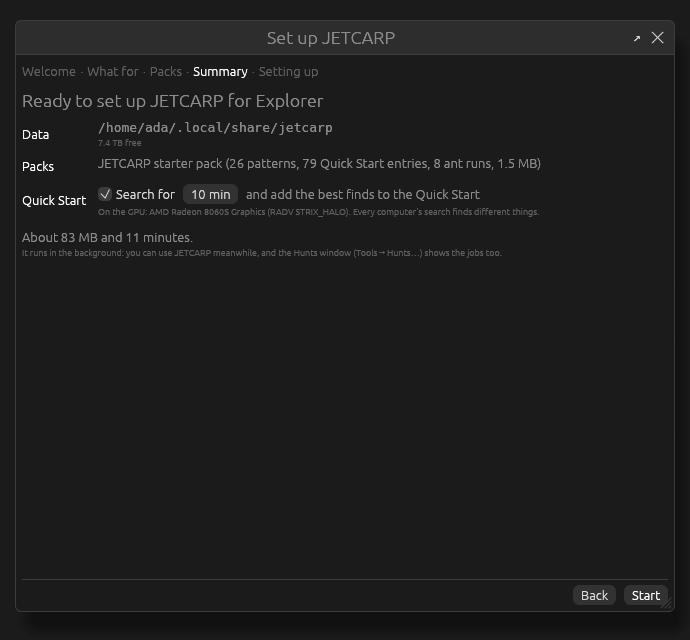
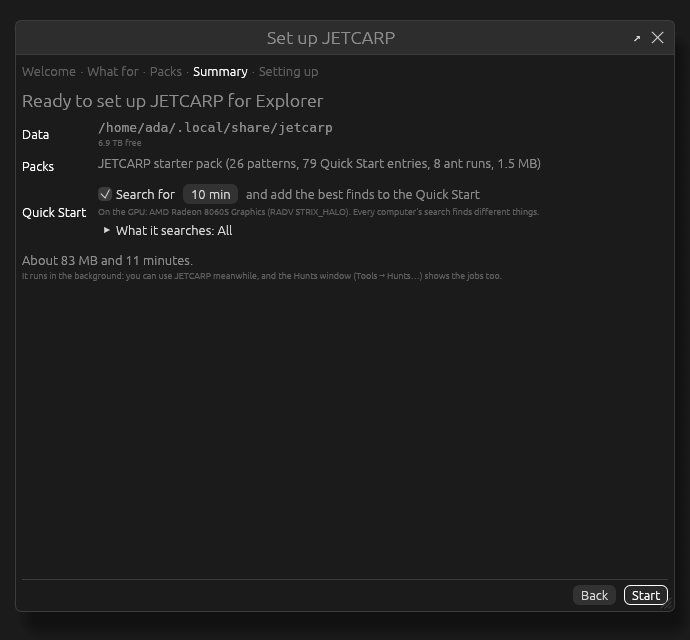
The setup window chooses what its Quick Start build searches (#239)
Under the build, *What it searches* reads All. Opened, an All box ticks
or clears every one, and a box for each tiling group and each rule
family narrows it; it then reads Custom, and setup is told the groups
(when not every one) and the families ticked. Start waits while no group
or no family is ticked.

All is every tiling and every family, isotropic rules included (the
maintainer's choice), and it is setup's own default, so `jetcarp setup`
builds the same search: a Quick Start build given no search names every
family the explore search samples (quick_start_everything).

Tests, red first: the_quick_start_search_is_all_or_custom (with the
choice not sent: "a custom choice"), and
the_quick_start_build_searches_everything_unless_told_otherwise (with
the old default, no families in the spec). The book's first-run page
and its summary picture, the searching guide and the changelog.

Changed region(s): [[0.0304, 0.3125, 0.5478, 0.4375], [0.6087, 0.375, 0.7304, 0.4375]]

diff --git a/crates/jetcarp-app/src/setup_ui.rs b/crates/jetcarp-app/src/setup_ui.rs
@@ -22,10 +22,12 @@ use crate::desktop_offers::Offer;
 use eframe::egui::{self, Color32, RichText};
 use jetcarp_api::Ctx;
 use jetcarp_api::op::{Op, Quiet};
+use jetcarp_api::ops::search::ExploreIn;
 use jetcarp_api::ops::setup::{
     self, Applied, ApplyIn, DataDirIn, KeySeen, PackEntry, Profile, SetupJob, SetupStatus,
 };
 use jetcarp_api::ops::system::human_bytes;
+use jetcarp_core::explore::space::Fam;
 use std::collections::BTreeMap;
 use std::path::{Path, PathBuf};
 use std::sync::Arc;
@@ -123,6 +125,10 @@ pub struct Wizard {
     pub extra: Vec<(PathBuf, Vec<PackEntry>)>,
     pub build_on: bool,
     pub minutes: f64,
+    /// What the Quick Start build searches: the tiling groups and the rule families, ticked or
+    /// not. Every one at first (*All*), isotropic rules included.
+    pub groups: Vec<(&'static str, bool)>,
+    pub families: Vec<(Fam, bool)>,
     pub offers: BTreeMap<&'static str, bool>,
     status: Option<SetupStatus>,
     loading: Option<Receiver<SetupStatus>>,
@@ -168,6 +174,14 @@ impl Wizard {
             extra: vec![],
             build_on: false,
             minutes: 0.0,
+            groups: jetcarp_core::explore::space::TILING_GROUPS
+                .iter()
+                .map(|g| (*g, true))
+                .collect(),
+            families: jetcarp_search::explore::job::sampled_families()
+                .into_iter()
+                .map(|f| (f, true))
+                .collect(),
             offers: Offer::ALL.iter().map(|o| (offer_key(*o), false)).collect(),
             status: None,
             loading: None,
@@ -454,6 +468,45 @@ impl Wizard {
         self.extra.push((dir, found));
     }
 
+    /// Whether the Quick Start build searches everything: every tiling group and every rule
+    /// family ticked (*All*).
+    pub fn search_all(&self) -> bool {
+        self.groups.iter().all(|g| g.1) && self.families.iter().all(|f| f.1)
+    }
+
+    /// Why the Quick Start build's choice can't run, if it can't.
+    pub fn search_problem(&self) -> Option<&'static str> {
+        if !self.build_on {
+            None
+        } else if !self.groups.iter().any(|g| g.1) {
+            Some("Tick at least one group of tilings.")
+        } else if !self.families.iter().any(|f| f.1) {
+            Some("Tick at least one rule family.")
+        } else {
+            None
+        }
+    }
+
+    /// The Quick Start build's search: none for *All* (setup's own default, every tiling and
+    /// every family), else the groups (when not every one) and the families ticked.
+    pub fn search_input(&self) -> Option<ExploreIn> {
+        if self.search_all() {
+            return None;
+        }
+        let groups: Vec<&str> = self.groups.iter().filter(|g| g.1).map(|g| g.0).collect();
+        let families: Vec<&str> = self
+            .families
+            .iter()
+            .filter(|f| f.1)
+            .map(|f| f.0.name())
+            .collect();
+        Some(ExploreIn {
+            tiling_groups: (groups.len() < self.groups.len()).then(|| serde_json::json!(groups)),
+            families: Some(serde_json::json!(families)),
+            ..Default::default()
+        })
+    }
+
     /// What `setup.apply` is asked to do.
     pub fn apply_input(&self) -> Option<ApplyIn> {
         let p = self.profile?;
@@ -475,6 +528,11 @@ impl Wizard {
             ),
             // As JETCARP's GPU setting says.
             gpu: None,
+            search: if self.build_on {
+                self.search_input()
+            } else {
+                None
+            },
             background: true,
             ..Default::default()
         })
@@ -753,7 +811,10 @@ impl Wizard {
                             .apply_input()
                             .is_some_and(|a| self.would_run_nothing(&a));
                         let label = if nothing { "Finish" } else { "Start" };
-                        let b = ui.button(RichText::new(label).strong());
+                        let b = ui.add_enabled(
+                            self.search_problem().is_none(),
+                            egui::Button::new(RichText::new(label).strong()),
+                        );
                         self.key_main(&b);
                         if b.clicked() {
                             self.next();
@@ -1234,6 +1295,9 @@ impl Wizard {
                         );
                     }
                     ui.label(RichText::new(words.join(" ")).small().weak());
+                    if self.build_on {
+                        self.search_choice_ui(ui);
+                    }
                 });
                 ui.end_row();
                 if p.desktop_offers() {
@@ -1279,6 +1343,46 @@ impl Wizard {
                 .weak(),
             );
         }
+    }
+
+    /// What the Quick Start build searches: *All* at first; opened, an *All* box and a box for
+    /// every tiling group and rule family, and the title reads *Custom* once they differ.
+    fn search_choice_ui(&mut self, ui: &mut egui::Ui) {
+        let title = if self.search_all() {
+            "What it searches: All"
+        } else {
+            "What it searches: Custom"
+        };
+        // A fixed id, so it stays open as its title changes.
+        egui::CollapsingHeader::new(title)
+            .id_salt("setup-quick-start-search")
+            .show(ui, |ui| {
+                let mut all = self.search_all();
+                if ui
+                    .checkbox(&mut all, "All")
+                    .on_hover_text("Every tiling group and every rule family, isotropic rules too")
+                    .changed()
+                {
+                    self.groups.iter_mut().for_each(|g| g.1 = all);
+                    self.families.iter_mut().for_each(|f| f.1 = all);
+                }
+                ui.label(RichText::new("Tilings").small().strong());
+                ui.horizontal_wrapped(|ui| {
+                    for (g, on) in &mut self.groups {
+                        ui.checkbox(on, crate::dash_ui::group_label(g))
+                            .on_hover_text(crate::dash_ui::group_note(g));
+                    }
+                });
+                ui.label(RichText::new("Rule families").small().strong());
+                ui.horizontal_wrapped(|ui| {
+                    for (f, on) in &mut self.families {
+                        ui.checkbox(on, crate::dash_ui::family_label(*f));
+                    }
+                });
+                if let Some(p) = self.search_problem() {
+                    ui.colored_label(ui.visuals().error_fg_color, p);
+                }
+            });
     }
 
     fn progress_ui(&mut self, ui: &mut egui::Ui) {

diff --git a/crates/jetcarp-api/src/ops/setup.rs b/crates/jetcarp-api/src/ops/setup.rs
@@ -594,6 +594,20 @@ fn free_space_at(_: &Path) -> Option<u64> {
     None
 }
 
+/// The Quick Start build's search when setup is given none: every tiling, and every rule family
+/// the explore search samples named, so isotropic rules (searched elsewhere only when named) are
+/// in it too, as the setup window's *All* has them.
+pub fn quick_start_everything() -> ExploreIn {
+    let families: Vec<&str> = jetcarp_search::explore::job::sampled_families()
+        .into_iter()
+        .map(|f| f.name())
+        .collect();
+    ExploreIn {
+        families: Some(serde_json::json!(families)),
+        ..Default::default()
+    }
+}
+
 // ---------------------------------------------------------------------------------------------
 // The data folder
 
@@ -1299,7 +1313,8 @@ pub struct ApplyIn {
     /// GPU setting says (automatic: the GPU when there is a usable one).
     #[serde(default)]
     pub gpu: Option<bool>,
-    /// The Quick Start build's search settings (default: every tiling and rule family).
+    /// The Quick Start build's search settings (default: every tiling and every rule family the
+    /// explore search samples, isotropic rules included, as the setup window's *All*).
     #[serde(default)]
     pub search: Option<ExploreIn>,
     /// How much of each pack is verified again on import: sample (default), full, none.
@@ -1398,7 +1413,7 @@ fn plan_build(
     }
     let input = super::quickstart::BuildIn {
         minutes: Some(minutes),
-        search: a.search.clone().unwrap_or_default(),
+        search: a.search.clone().unwrap_or_else(quick_start_everything),
         gpu: a.gpu,
         ..Default::default()
     };
@@ -1723,5 +1738,39 @@ impl Op for SetupApply {
     type Out = Applied;
     fn run(cx: &Ctx, a: ApplyIn, p: &dyn Progress) -> Result<Applied, ApiError> {
         apply(cx, a, p)
+    }
+}
+
+#[cfg(test)]
+mod quick_start_tests {
+    use super::*;
+
+    /// With no search given, the Quick Start build searches everything, every family named so
+    /// isotropic rules (opt-in elsewhere) are in it; a search given is used as it is (#239).
+    #[test]
+    fn the_quick_start_build_searches_everything_unless_told_otherwise() {
+        let gpu = GpuStatus {
+            usable: false,
+            name: String::new(),
+            note: String::new(),
+        };
+        let a = ApplyIn {
+            profile: "explorer".into(),
+            ..Default::default()
+        };
+        let p = plan_build(5.0, &a, &gpu, false).unwrap().expect("a build");
+        // The spec keeps the families as it writes them (`wire_world`, not `wireworld`).
+        let every = serde_json::to_value(jetcarp_search::explore::job::sampled_families()).unwrap();
+        assert_eq!(p.spec.spec["families"], every, "{}", p.spec.spec);
+        assert!(every.as_array().unwrap().contains(&"isotropic".into()));
+        let a = ApplyIn {
+            search: Some(ExploreIn {
+                families: Some(serde_json::json!(["life_like"])),
+                ..Default::default()
+            }),
+            ..a
+        };
+        let p = plan_build(5.0, &a, &gpu, false).unwrap().expect("a build");
+        assert_eq!(p.spec.spec["families"], serde_json::json!(["life_like"]));
     }
 }

diff --git a/crates/jetcarp-app/tests/setup_wizard.rs b/crates/jetcarp-app/tests/setup_wizard.rs
@@ -219,3 +219,55 @@ fn applying_blank_slate_records_it_and_shows_it_done() {
     w.back();
     assert_eq!(w.page(), Page::Progress);
 }
+
+/// The Quick Start build searches everything at first (*All*: setup's own default, so no choice
+/// is sent); unticking a group or a family makes it *Custom*, and setup is told the groups and
+/// the families ticked, isotropic rules among them; *All* ticks or clears every one; with no
+/// group or no family ticked, it can't start (#239).
+#[test]
+fn the_quick_start_search_is_all_or_custom() {
+    let d = scratch("search-choice");
+    let mut w = wizard(&d, Mock::default());
+    w.choose(Profile::Explorer);
+    assert!(w.build_on, "Explorer builds a Quick Start");
+    assert!(w.search_all());
+    assert!(
+        w.apply_input().unwrap().search.is_none(),
+        "All sends no choice"
+    );
+    // Unticked: the square group.
+    let sq = w.groups.iter().position(|g| g.0 == "square").unwrap();
+    w.groups[sq].1 = false;
+    assert!(!w.search_all());
+    let s = w.apply_input().unwrap().search.expect("a custom choice");
+    let groups = s.tiling_groups.expect("the groups ticked");
+    assert!(
+        !groups.as_array().unwrap().contains(&"square".into()),
+        "{groups}"
+    );
+    assert_eq!(groups.as_array().unwrap().len(), w.groups.len() - 1);
+    let fams = s.families.expect("the families, named");
+    assert!(
+        fams.as_array().unwrap().contains(&"isotropic".into()),
+        "{fams}"
+    );
+    assert_eq!(fams.as_array().unwrap().len(), w.families.len());
+    // Every group ticked again, one family not: the families alone are sent.
+    w.groups[sq].1 = true;
+    w.families[0].1 = false;
+    let s = w.apply_input().unwrap().search.expect("a custom choice");
+    assert!(s.tiling_groups.is_none());
+    assert_eq!(
+        s.families.unwrap().as_array().unwrap().len(),
+        w.families.len() - 1
+    );
+    // No group ticked: it can't start; no build: no choice either way.
+    w.groups.iter_mut().for_each(|g| g.1 = false);
+    assert_eq!(
+        w.search_problem(),
+        Some("Tick at least one group of tilings.")
+    );
+    w.build_on = false;
+    assert_eq!(w.search_problem(), None);
+    assert!(w.apply_input().unwrap().search.is_none());
+}

diff --git a/crates/jetcarp-app/src/dash_ui.rs b/crates/jetcarp-app/src/dash_ui.rs
@@ -244,7 +244,7 @@ pub fn group_label(g: &str) -> &'static str {
 }
 
 /// What a tiling group holds, for its tooltip.
-fn group_note(g: &str) -> &'static str {
+pub fn group_note(g: &str) -> &'static str {
     match g {
         "square" => "The square grid and the tilings with its neighbours (quad, glide, fourfold)",
         "hexagon" => {

diff --git a/crates/jetcarp-mcp/resources/docs/getting-started/first-run.md b/crates/jetcarp-mcp/resources/docs/getting-started/first-run.md
@@ -101,7 +101,14 @@ can switch off (Explorer) or lengthen and shorten, from 1 minute to 600. It also
 build runs on the GPU, and roughly what it all takes. **Start** begins; for a profile with nothing to
 import or build the button says **Finish**.
 
-<img src="../images/getting-started/setup-6-summary.png" alt="The summary for Explorer: the data folder, the starter pack, and a ten-minute search on the GPU, about 83 MB and 11 minutes" width="600">
+Under the build, *What it searches* reads **All**: every group of tilings and every rule family,
+isotropic rules too. Open it for an *All* box, which ticks or clears every one, and a box for each
+group of tilings (square, hexagon, triangle, pentagon, Archimedean, k-uniform, isohedral,
+aperiodic) and each rule family. Untick any and it reads **Custom**, and the build searches only
+what's ticked. `jetcarp setup` builds the same *All* search. A search of your own choosing later is
+in [Searching](../guides/searching.md#choosing-what-to-search).
+
+<img src="../images/getting-started/setup-6-summary.png" alt="The summary for Explorer: the data folder, the starter pack, and a ten-minute search on the GPU, with What it searches: All closed under it; about 83 MB and 11 minutes" width="600">
 
 **Setting up.** Each job with its progress; each import says who signed the pack and what your
 library knew of their key, with a new key marked again below it. They run in the background, so **Continue in the

diff --git a/docs/src/getting-started/first-run.md b/docs/src/getting-started/first-run.md
@@ -101,7 +101,14 @@ can switch off (Explorer) or lengthen and shorten, from 1 minute to 600. It also
 build runs on the GPU, and roughly what it all takes. **Start** begins; for a profile with nothing to
 import or build the button says **Finish**.
 
-<img src="../images/getting-started/setup-6-summary.png" alt="The summary for Explorer: the data folder, the starter pack, and a ten-minute search on the GPU, about 83 MB and 11 minutes" width="600">
+Under the build, *What it searches* reads **All**: every group of tilings and every rule family,
+isotropic rules too. Open it for an *All* box, which ticks or clears every one, and a box for each
+group of tilings (square, hexagon, triangle, pentagon, Archimedean, k-uniform, isohedral,
+aperiodic) and each rule family. Untick any and it reads **Custom**, and the build searches only
+what's ticked. `jetcarp setup` builds the same *All* search. A search of your own choosing later is
+in [Searching](../guides/searching.md#choosing-what-to-search).
+
+<img src="../images/getting-started/setup-6-summary.png" alt="The summary for Explorer: the data folder, the starter pack, and a ten-minute search on the GPU, with What it searches: All closed under it; about 83 MB and 11 minutes" width="600">
 
 **Setting up.** Each job with its progress; each import says who signed the pack and what your
 library knew of their key, with a new key marked again below it. They run in the background, so **Continue in the

diff --git a/crates/jetcarp-mcp/resources/docs/guides/searching.md b/crates/jetcarp-mcp/resources/docs/guides/searching.md
@@ -254,9 +254,10 @@ jetcarp search explore --minutes 60 --skip-tiling-groups aperiodic --skip-famili
   tilings, and a family named that none of the tilings chosen can run is refused with the reason.
 
 The job keeps the choice in its spec (`jetcarp jobs status JOB --json` shows it), says it in its
-title, and keeps to it when it carries on. `jetcarp quickstart build` takes the same flags, and
-scripts and MCP's `search_start` take the same keys in an explore search's settings
-(`tiling_groups`, `skip_families`, ...). A search that chooses nothing, and one made before 0.4.3,
+title, and keeps to it when it carries on. `jetcarp quickstart build` takes the same flags, the setup
+window's Quick Start build has the same boxes under *What it searches*
+([First run](../getting-started/first-run.md)), and scripts and MCP's `search_start` take the same
+keys in an explore search's settings (`tiling_groups`, `skip_families`, ...). A search that chooses nothing, and one made before 0.4.3,
 draw exactly as before.
 
 A budget ends it on time: the GPU's last batch is sized to end before it (and given up if it runs

diff --git a/docs/src/guides/searching.md b/docs/src/guides/searching.md
@@ -254,9 +254,10 @@ jetcarp search explore --minutes 60 --skip-tiling-groups aperiodic --skip-famili
   tilings, and a family named that none of the tilings chosen can run is refused with the reason.
 
 The job keeps the choice in its spec (`jetcarp jobs status JOB --json` shows it), says it in its
-title, and keeps to it when it carries on. `jetcarp quickstart build` takes the same flags, and
-scripts and MCP's `search_start` take the same keys in an explore search's settings
-(`tiling_groups`, `skip_families`, ...). A search that chooses nothing, and one made before 0.4.3,
+title, and keeps to it when it carries on. `jetcarp quickstart build` takes the same flags, the setup
+window's Quick Start build has the same boxes under *What it searches*
+([First run](../getting-started/first-run.md)), and scripts and MCP's `search_start` take the same
+keys in an explore search's settings (`tiling_groups`, `skip_families`, ...). A search that chooses nothing, and one made before 0.4.3,
 draw exactly as before.
 
 A budget ends it on time: the GPU's last batch is sized to end before it (and given up if it runs

diff --git a/crates/jetcarp-mcp/resources/docs/about/changelog.md b/crates/jetcarp-mcp/resources/docs/about/changelog.md
@@ -60,6 +60,12 @@ day later (0.4.2: 17 November here, 18 November there).
   [Search methods](../research/search-methods.md#explore),
   [#239](https://github.com/jprodgers/jetcarp/issues/239))
 
+- **The setup window chooses what its Quick Start build searches.** Under the build, *What it
+  searches* reads *All*; opened, an *All* box ticks or clears every one, and a box for each group
+  of tilings and each rule family narrows it, and it then reads *Custom*. *All* is every tiling and
+  every family, isotropic rules included, and it is what `jetcarp setup` builds too, where before
+  a first build left isotropic rules out. ([First run](../getting-started/first-run.md),
+  [#239](https://github.com/jprodgers/jetcarp/issues/239))
 - **Isotropic rule ranges.** A pattern on the square grid's touching neighbours now carries the
   isotropic rules it runs in exactly as stored: the births and survivals its evolution needs, and
   those it must not have, among the 51 arrangements of the live neighbours that Hensel's notation

diff --git a/docs/src/about/changelog.md b/docs/src/about/changelog.md
@@ -60,6 +60,12 @@ day later (0.4.2: 17 November here, 18 November there).
   [Search methods](../research/search-methods.md#explore),
   [#239](https://github.com/jprodgers/jetcarp/issues/239))
 
+- **The setup window chooses what its Quick Start build searches.** Under the build, *What it
+  searches* reads *All*; opened, an *All* box ticks or clears every one, and a box for each group
+  of tilings and each rule family narrows it, and it then reads *Custom*. *All* is every tiling and
+  every family, isotropic rules included, and it is what `jetcarp setup` builds too, where before
+  a first build left isotropic rules out. ([First run](../getting-started/first-run.md),
+  [#239](https://github.com/jprodgers/jetcarp/issues/239))
 - **Isotropic rule ranges.** A pattern on the square grid's touching neighbours now carries the
   isotropic rules it runs in exactly as stored: the births and survivals its evolution needs, and
   those it must not have, among the 51 arrangements of the live neighbours that Hensel's notation
